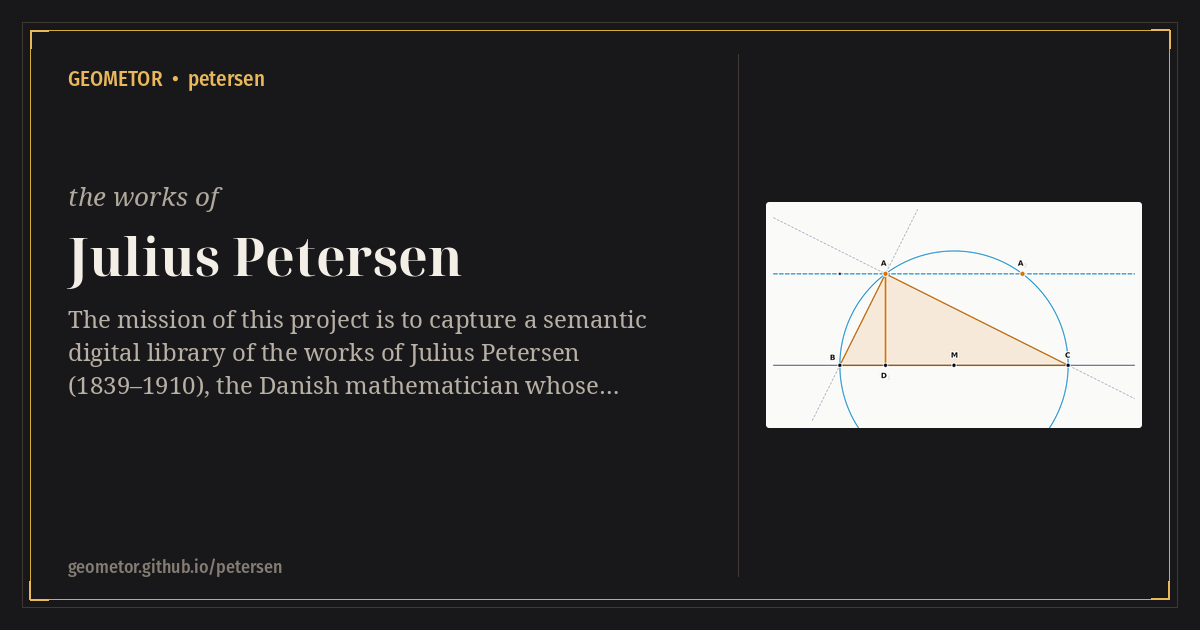
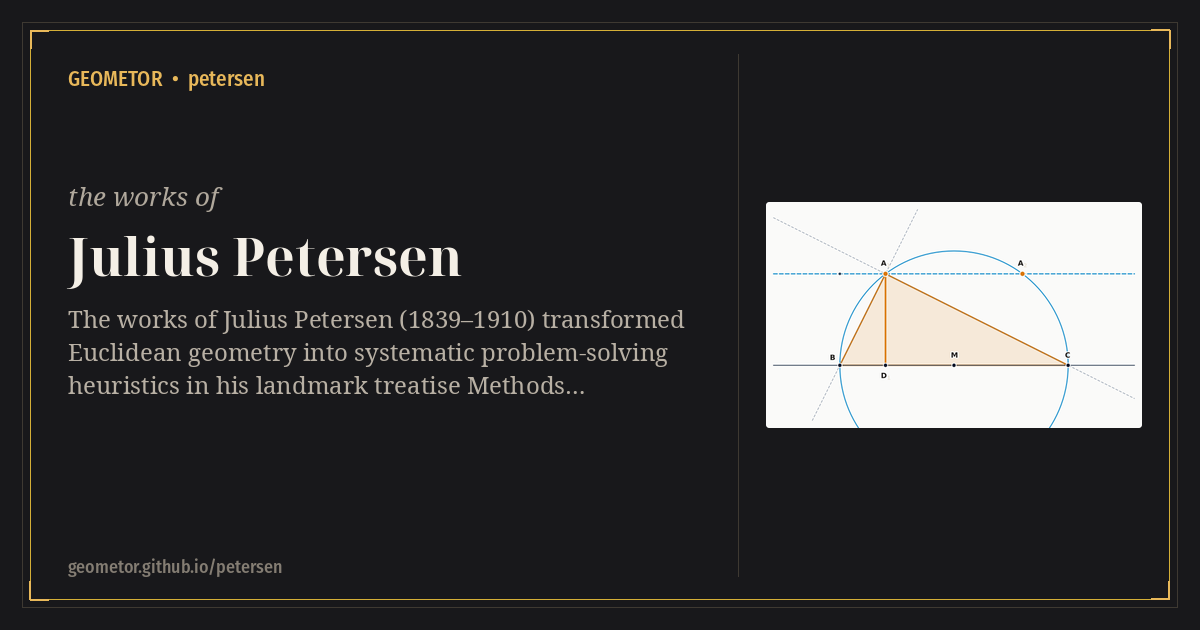
docs: add construction hero images, elevate English titles with native title tracks, and standardize track menus

Changed region(s): [[0.0617, 0.4825, 0.5858, 0.6333]]

diff --git a/README.rst b/README.rst
@@ -3,6 +3,11 @@ GEOMETOR • petersen
 
 **Visit the Online Archive:** https://geometor.github.io/petersen/
 
+.. image:: docsrc/_static/figures/unit01-discussion-schema.svg
+   :alt: GEOMETOR • petersen featured geometric construction
+   :target: https://geometor.github.io/petersen/
+   :align: center
+
 **Julius Petersen • Methods and Theories for Geometrical Constructions • semantic digital archive**
 
 Mission
